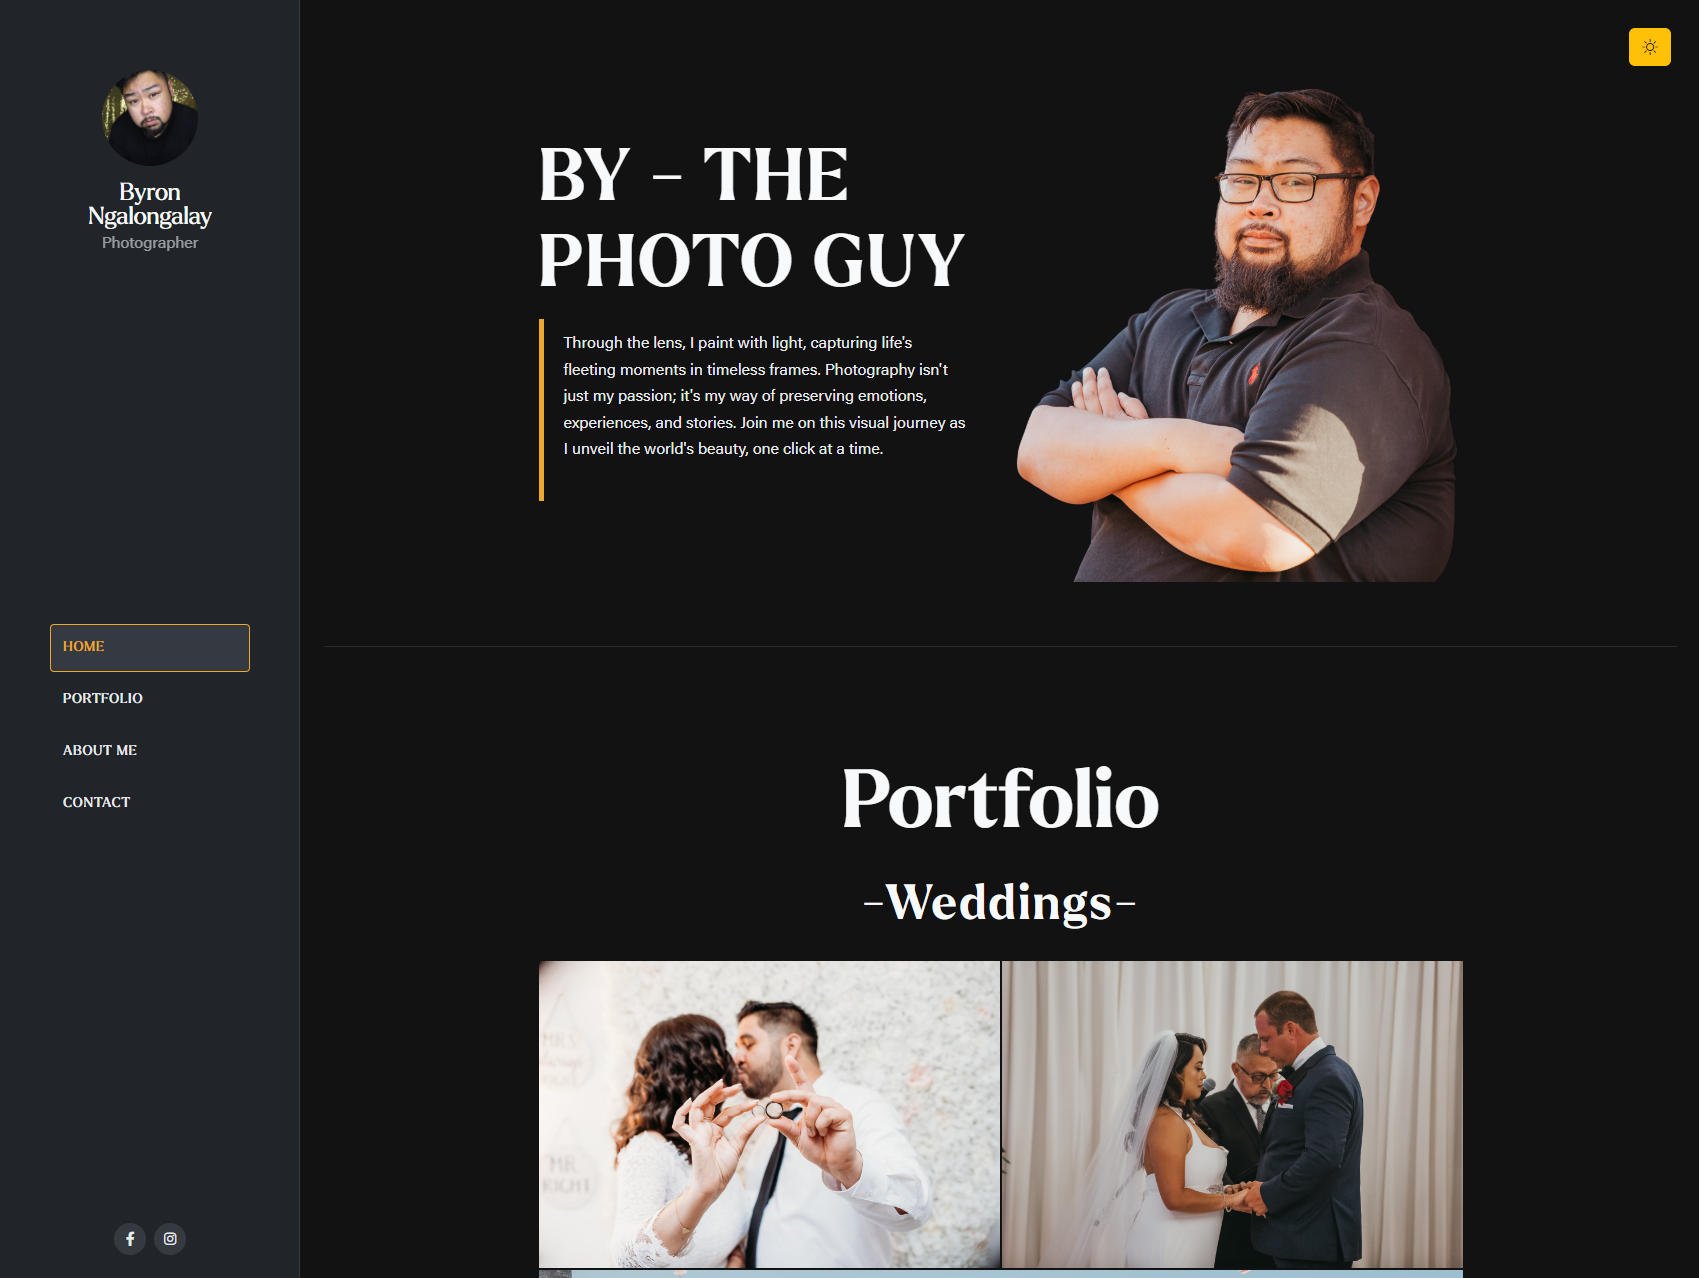
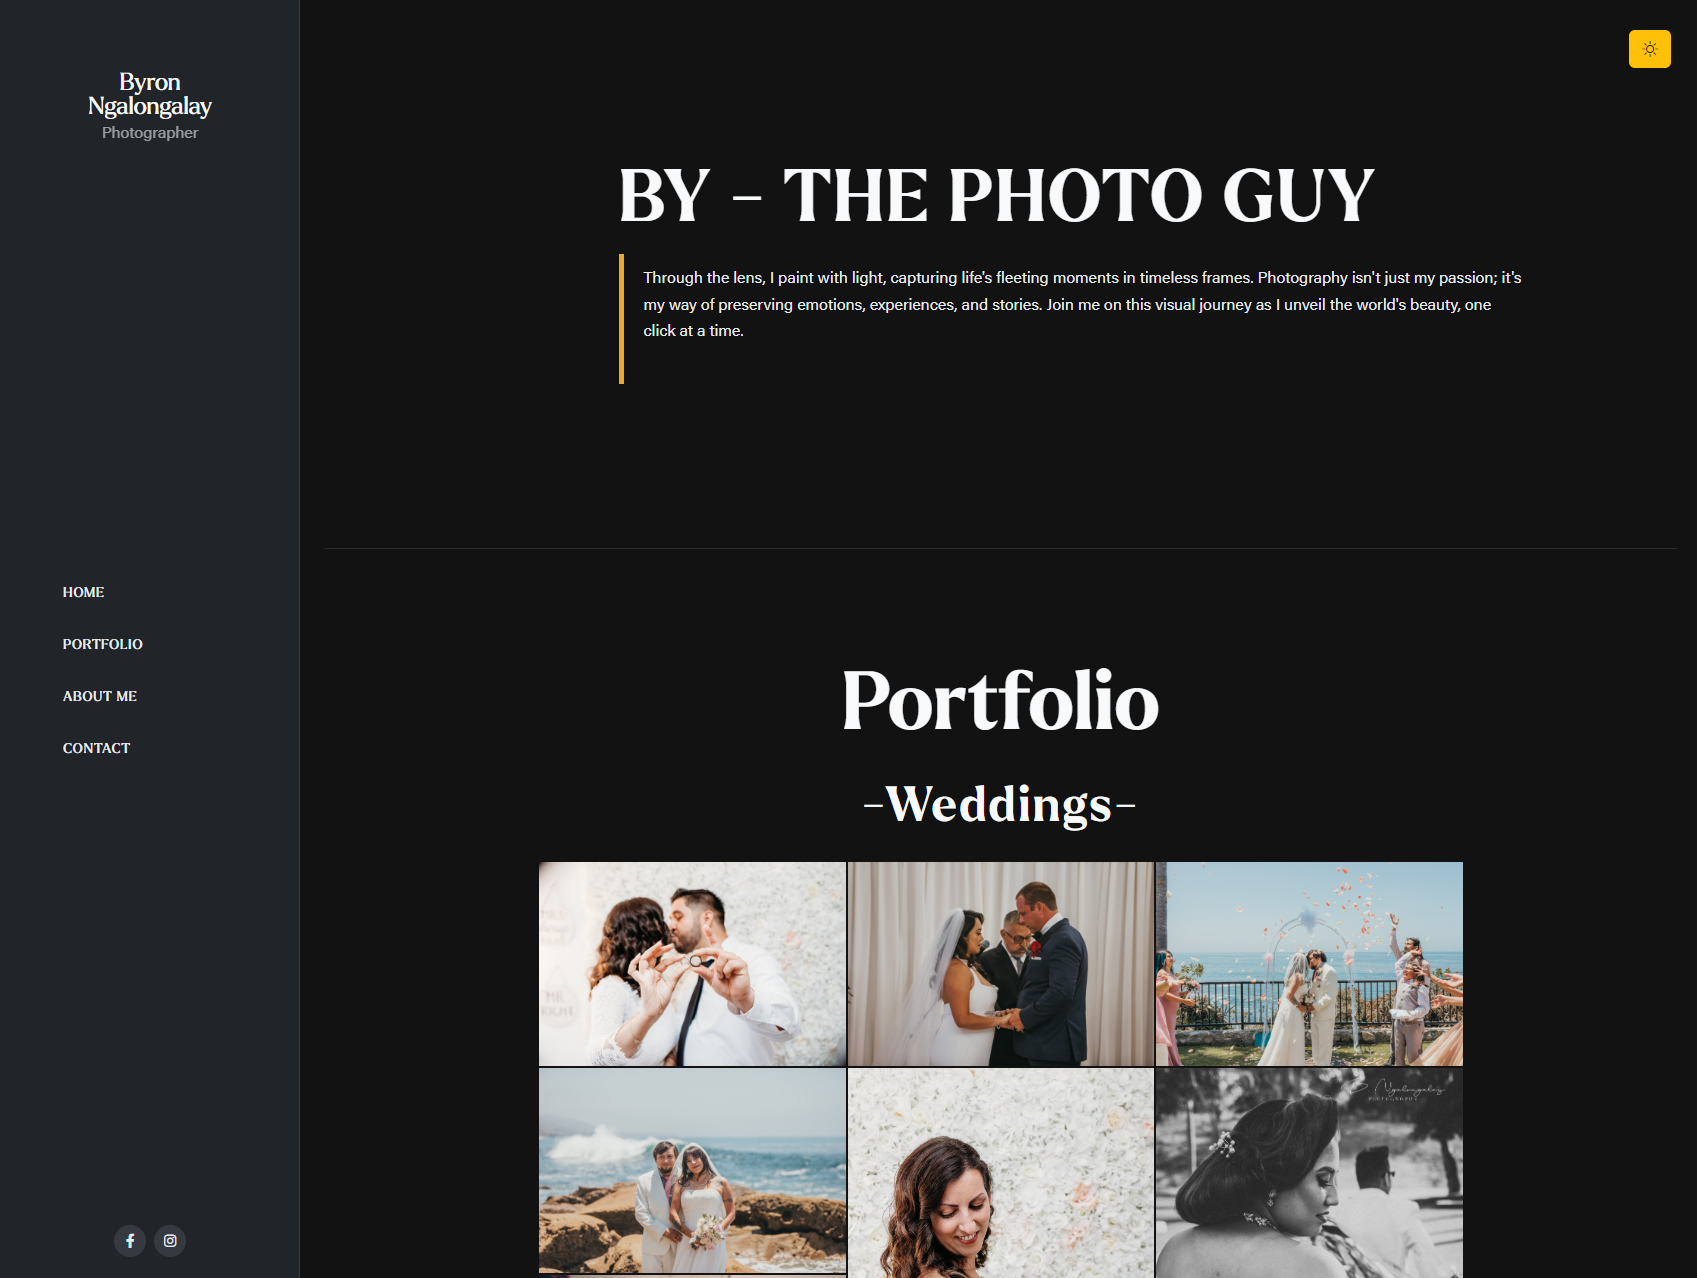
added to website portfolio

diff --git a/index.html b/index.html
@@ -85,6 +85,15 @@
                         <img class="img-fluid" src="./assets/img/portfolio/code-monsters-screen.PNG" alt="..." />
                     </div>
                 </div>
+                <!-- Portfolio Item 4-->
+                <div class="col-md-6 col-lg-4 mb-5">
+                    <div class="portfolio-item mx-auto" data-bs-toggle="modal" data-bs-target="#portfolioModal4">
+                        <div class="portfolio-item-caption d-flex align-items-center justify-content-center h-100 w-100">
+                            <div class="portfolio-item-caption-content text-center text-white"><i class="fas fa-plus fa-3x"></i></div>
+                        </div>
+                        <img class="img-fluid" src="./assets/img/portfolio/byphotoguy.png" alt="..." />
+                    </div>
+                </div>
             </div>
             <!-- Portfolio Section Heading-->
             <h2 class="page-section-heading text-center text-uppercase text-white mb-0">Audio Portfolio</h2>
@@ -251,7 +260,7 @@
                                 <a href="https://www.kalpt.com" target="_blank" ><img class="img-fluid rounded mb-5" src="./assets/img/portfolio/kalpt-screen.PNG" alt="..." /></a>
                                 <!-- Portfolio Modal - Text-->
                                 <p class="mb-4">KAL Physical Therapy is a private vestibular physical therapy concierge practice in Long Island, NY.</p>
-                                <button class="btn btn-primary" data-bs-dismiss="modal">
+                                <button class="btn btn-dark" data-bs-dismiss="modal">
                                     <i class="fas fa-xmark fa-fw"></i>
                                     Close Window
                                 </button>
@@ -281,7 +290,7 @@
                                 <a href="https://www.joepharmatech.com" target="_blank" ><img class="img-fluid rounded mb-5" src="./assets/img/portfolio/joe-phartech-screen.PNG" alt="..." /></a>
                                 <!-- Portfolio Modal - Text-->
                                 <p class="mb-4">Joe's Pharmacy Tech Hub is a website made to help pharmacy technicians, in the specialty pharmacy setting, with different pharmacy resources that are used in everyday practice.</p>
-                                <button class="btn btn-primary" data-bs-dismiss="modal">
+                                <button class="btn btn-dark" data-bs-dismiss="modal">
                                     <i class="fas fa-xmark fa-fw"></i>
                                     Close Window
                                 </button>
@@ -311,7 +320,37 @@
                                 <a href="https://jdanleano.github.io/Code-Monsters/" target="_blank" ><img class="img-fluid rounded mb-5" src="./assets/img/portfolio/code-monsters-screen.PNG" alt="..." /></a>
                                 <!-- Portfolio Modal - Text-->
                                 <p class="mb-4">Code Monsters is a web application project made for beginner developers that gathers many resources about web development in one location</p>
-                                <button class="btn btn-primary" data-bs-dismiss="modal">
+                                <button class="btn btn-dark" data-bs-dismiss="modal">
+                                    <i class="fas fa-xmark fa-fw"></i>
+                                    Close Window
+                                </button>
+                            </div>
+                        </div>
+                    </div>
+                </div>
+            </div>
+        </div>
+    </div>
+    <!-- Portfolio Modal 4-->
+    <div class="portfolio-modal modal fade" id="portfolioModal4" tabindex="-1" aria-labelledby="portfolioModal3" aria-hidden="true">
+        <div class="modal-dialog modal-xl">
+            <div class="modal-content">
+                <div class="modal-header border-0"><button class="btn-close" type="button" data-bs-dismiss="modal" aria-label="Close"></button></div>
+                <div class="modal-body text-center pb-5">
+                    <div class="container">
+                        <div class="row justify-content-center">
+                            <div class="col-lg-12">
+                                <!-- Portfolio Modal - Title-->
+                                <h2 class="portfolio-modal-title text-secondary text-uppercase mb-0">Byron Ngalongalay Photography</h2>
+                                <!-- Icon Divider-->
+                                <div class="divider-custom">
+                                    <div class="divider-custom-line"></div>
+                                </div>
+                                <!-- Portfolio Modal - Image-->
+                                <a href="https://www.byphotoguy.com" target="_blank" ><img class="img-fluid rounded mb-5" src="./assets/img/portfolio/byphotoguy.png" alt="..." /></a>
+                                <!-- Portfolio Modal - Text-->
+                                <p class="mb-4">Byron Ngalongalay is a professional photographer from Long Beach California</p>
+                                <button class="btn btn-dark" data-bs-dismiss="modal">
                                     <i class="fas fa-xmark fa-fw"></i>
                                     Close Window
                                 </button>
